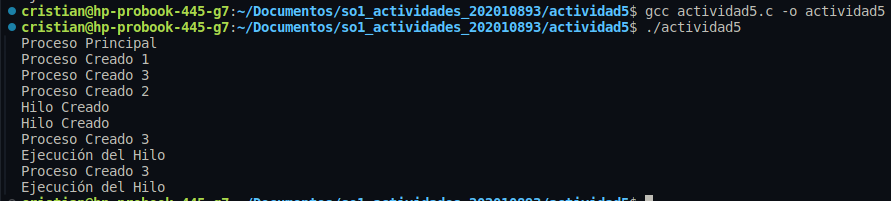
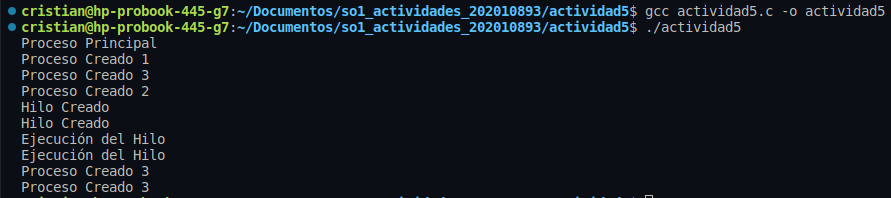
actividad5

Changed region(s): [[0.0, 0.2727, 0.7576, 1.0], [0.0, 0.0303, 0.8485, 0.2424], [0.9091, 0.0606, 1.0, 0.0909]]

diff --git a/actividad5/actividad5.c b/actividad5/actividad5.c
@@ -11,6 +11,8 @@ void *thread_function(void *arg) {
 int main() {
     pid_t pid;
     pthread_t tid;
+    pthread_attr_t attr;
+
     printf("Proceso Principal\n");
     printf("Proceso Creado 1\n");
     pid = fork(); //FORK1: Se crea un proceso hijo (Hijo 1)
@@ -19,7 +21,9 @@ int main() {
         printf("Proceso Creado 2\n");
         fork(); // FORK2: Se crea otro proceso hijo (Hijo 2)
         printf("Hilo Creado\n");
-        pthread_create(&tid, NULL, thread_function, NULL);
+        pthread_attr_init(&attr);
+        pthread_create(&tid, &attr, thread_function, NULL);
+        pthread_join(tid, NULL);
     }
 
     printf("Proceso Creado 3\n");

diff --git a/actividad5/README.md b/actividad5/README.md
@@ -13,6 +13,8 @@ void *thread_function(void *arg) {
 int main() {
     pid_t pid;
     pthread_t tid;
+    pthread_attr_t attr;
+
     printf("Proceso Principal\n");
     printf("Proceso Creado 1\n");
     pid = fork(); //FORK1: Se crea un proceso hijo (Hijo 1)
@@ -21,7 +23,9 @@ int main() {
         printf("Proceso Creado 2\n");
         fork(); // FORK2: Se crea otro proceso hijo (Hijo 2)
         printf("Hilo Creado\n");
-        pthread_create(&tid, NULL, thread_function, NULL);
+        pthread_attr_init(&attr);
+        pthread_create(&tid, &attr, thread_function, NULL);
+        pthread_join(tid, NULL);
     }
 
     printf("Proceso Creado 3\n");
